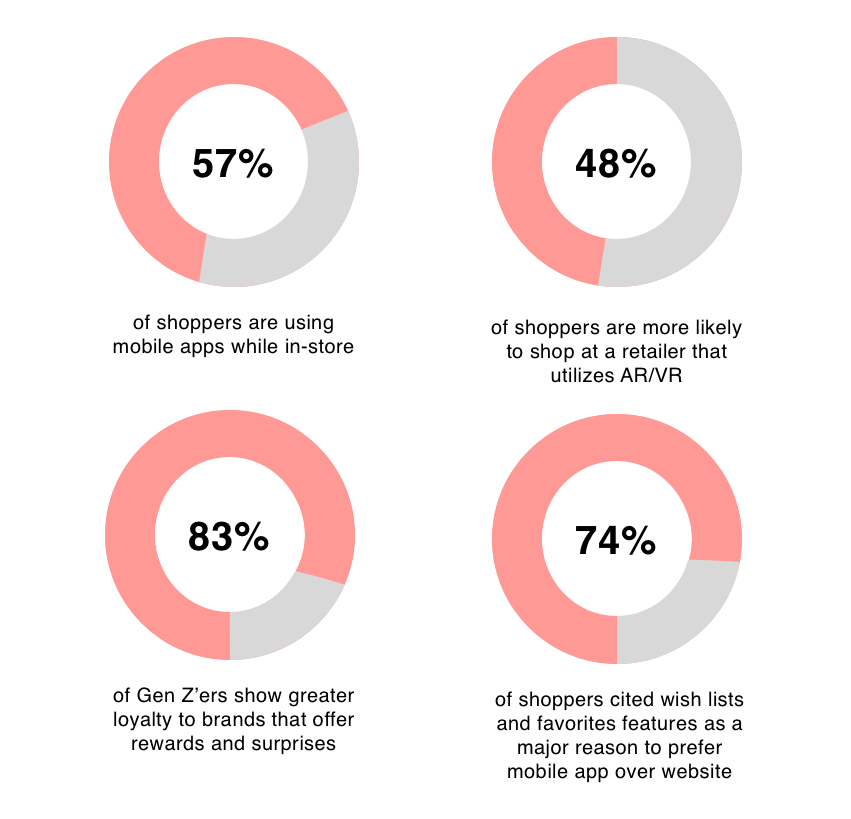
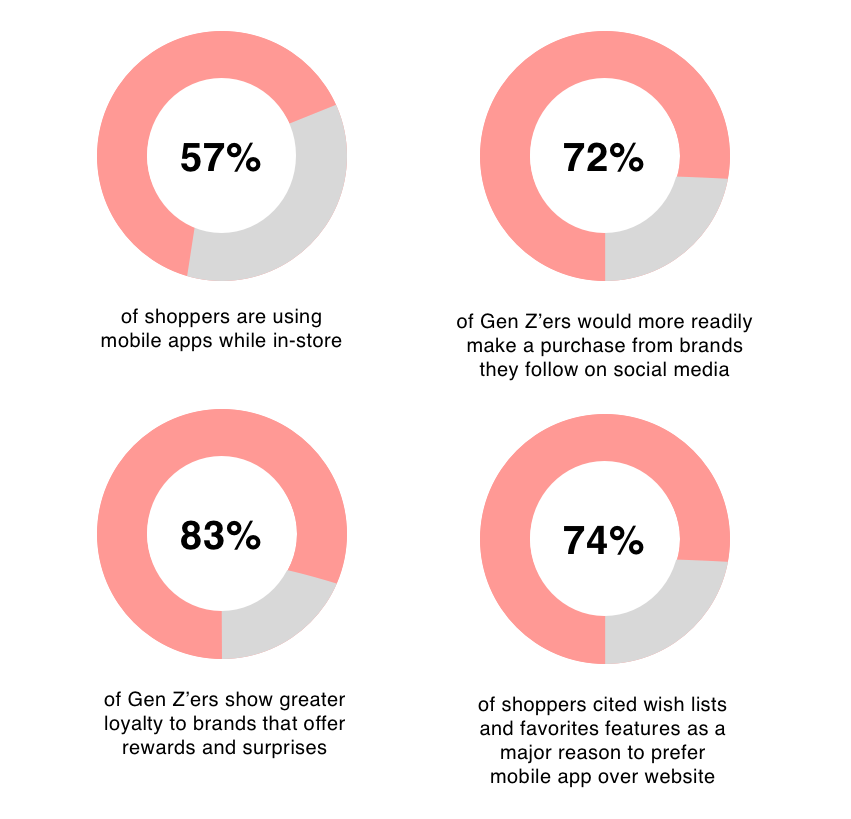
update

diff --git a/Coach/coach.html b/Coach/coach.html
@@ -65,52 +65,102 @@
         </div>
         <div class = "text">
             <p align = "justify">Summer 2019, I was an intern at Kate Spade. Kate Spade, Coach, and Stuart Weitzman are all owned by 
-                Tapestry. Tapestry had a case study competition for all its interns and I was placed in a team of six. My teammates had either a 
-                design or business background, so we were tasked with ideating Coach's mobile app.</p> 
-            <p align = "justify">Coach.com was seeing a huge jump in the number of mobile visitors. 
-                There was also a huge increase in conversion rates through mobile. As a result, Coach was exploring the 
-                introduction of a mobile app for consumers to use at home and potentially in stores to enhance the Coach 
-                shopping experience. Many of their rival companies had developed mobile apps to capitalize on convenience and 
-                open a new line of communication between customer and brand. Coach also faced difficulties connecting to 
-                younger generations and wanted to change that.</p>   
+                Tapestry. Tapestry had a case study competition for all its interns and I was placed in a team of six. My teammates and I, who had either a 
+                design or business background, were tasked with ideating a mobile app for Coach.</p> 
+            <p align = "justify">Why? Coach.com was seeing a huge jump in the number of mobile visitors, along with a huge increase in conversion rates through mobile. 
+                Many of their rival companies had already developed mobile apps to capitalize on convenience and open a new line of communication between customer 
+                and brand. Coach was also facing difficulties connecting to younger generations and wanted to change that.
+                As a result, Coach was exploring the introduction of a mobile app for consumers to use at home and potentially in stores to 
+                enhance the Coach shopping experience. </p>   
         </div>
         <div class = "highlight">
-            <p align = "justify">Coach wanted to connect to their customers in a new, innovative way. 
+            <p align = "justify">Coach wanted to connect to their customers in an innovative way. 
                 How could we design a mobile app that would appeal to all demographics, especially Gen Z, while maintaining Coach's values
                 and brand?</p>
         </div>  
         <div class = "title">
-            <h2>Research</h2>
+            <h2>User Research</h2>
         </div>
         <div class = "text">
-            <p align = "justify">Before working on the actual design, we needed to get an idea of what consumers are 
-                looking for. Our research found that <span class = "bold">Augmented/Virtual Reality</span> was one of the big technological trends. 
-                The Gucci app, for example, uses AR to allow users to try on shoes and glasses. Through more research and 
-                interviewing Tapestry employees, we found these other key points:</p>
+            <p align = "justify">Before working on the actual design, we needed to deepen our understanding of the target demographic: Generation Z. 
+                Luxury brands in general have long been associated with older people due to their high prices. Competitors such as Gucci managed to find ways to connect to 
+                younger people, but Coach had not.</p>
+        </div>
+        <div class = "highlight">
+            <p align = "justify">Why did this matter? What was so important about Gen Z?</p>
+        </div>
+        <div class = "text">
+            <p align = "justify">Our research found that <span class ="bold">consumers under the age of 35 loved to shop online due to its convenience</span>. Gen Z, 
+            in particular, was estimated to have a spending power of <span class ="bold">$143 billion</span>. It was no wonder that Coach wanted to tap into 
+            that market, and the best way to do so was through mobile.</p>
+        </div> 
+        <div class = "text">
+            <p align = "justify">Through more research and interviewing younger Tapestry employees, we discovered other key insights on Gen Z:</p>
         </div>
         <img class = "img" src = "Stats.png" alt = "stats"><br>
-        <div class = "title">
-            <h2>User Persona</h2>
+        <div class = "highlight">
+            <p align = "justify">We concluded that Gen Z valued meaningful incentives and interactions. It wasn't enough to simply have an app. The 
+                experience needed to be engaging and fun.</p>
         </div>
         <div class = "text">
-            <p align = "justify">Since the app would mainly target Gen Z, we developed a Gen Z persona to further help us understand 
-            what the app needed.</p><br>
+            <p align = "justify">Apps take up space in users' smartphones. There needed to be a good reason to download them, to use them over 
+            a company's mobile site. Offering tools that mobile sites didn't have, such as wish lists, were one reason. Incentives such as rewards were another (we 
+            suspected this was because Gen Z'ers didn't have a proper income and therefore jumped at any opportunity to save money). Since Gen Z'ers 
+            were more likely to purchase from brands they follow on social media, we also concluded that Gen Z'ers valued building relationships. Lastly, 
+            despite shopping online so frequently, Gen Z'ers still liked to visit stores in person and expected interesting experiences there.</p> 
         </div>
-        <img class = "img" src = "Emily Young.png" alt = "persona"><br>
+        <div class = "text">
+            <p align = "justify">We created a Gen Z persona to tie all these findings together:</p>
+        </div>
+        <img class = "img" src = "Emily Young.png" alt = "persona">
+        <div class = "title">
+            <h2>Market Research</h2>
+        </div>
+        <div class = "text">
+            <p align = "justify">Gen Z clearly valued new and innovative technology. What sort of technology was out there, and how were they being used?</p>
+        </div>
+        <div class = "text">
+            <p align = "justify">We researched technological trends and found that <span class = "bold">Augmented and Virtual Reality were growing rapidly, 
+             with 48% of shoppers saying they were more likely to shop at retailers that utilized them.</span> Gucci, in fact, was using AR to allow customers to 
+             try on sneakers.</p>
+        </div>
+        <img class = "img" src = "gucci.png" alt = "gucci">
+        <div class = "text">
+            <p align = "justify">The reasoning behind this was because customers may hesitate to buy something online if they're unsure how it would look on them. 
+            We thought this was a great idea that didn't just need to be limited to shoes. Why not let users try on other items as well? We looked into the feasibility of that. 
+            AR required customers to use a camera, which could be tricky for trying on tops or bottoms. However, it was doable with VR, where customers could create an 
+            avatar that would wear the clothes for them.</p>
+        </div>
+        <div class = "text">
+            <p align = "justify">Since Gen Z also cared for positive in-store experiences, we researched methods for Coach stores to use advanced technology. <span class = "bold">QR 
+            codes</span> were becoming increasingly popular due to their convenience: all users need to do is scan them with their phone camera. We decided that QR codes could 
+            work with VR. An in-store customer could scan an item they liked and virtually try it on, saving them the time needed to find a fitting room and change.</p>
+        </div>
+        <img class = "img" src = "qr.png" alt = "qr code">
+        <div class = "text">
+            <p align = "justify">Our final research phase focused on general eCommerce best practices for both experience and visuals. We analyzed the mobile apps of several 
+            other brands, such as Chanel, Nike, and Burberry.</p>
+        </div>
+        <img class = "img" src = "Competitors.png" alt = "competitors">
+        <div class = "text">
+            <p align = "justify">We liked the cleanliness and big images, but Coach's app could definitely be more fun and interesting!</p>
+        </div>
         <div class = "title">
             <h2>Ideation</h2>
         </div>
         <div class = "text">
-            <p align = "justify">Based off of our research, we decided to create an app that would:</p>
-            <p align = "justify"><span class = "bold">1.</span> Utilize AR/VR to allow users to quickly try on products in/out of stores.<br><br>
-                <span class = "bold">2.</span> Build an online community by letting users share/save photos/products and 
+            <p align = "justify">Based on our research, we decided to create an app that would:</p>
+            <p align = "justify"><span class = "bold">1.</span> Utilize VR to allow customers to quickly try on products in/out of stores.<br><br>
+                <span class = "bold">2.</span> Build an online community by letting customers share/save photos/products and 
                 featuring social media influencers/Coach ambassadors.<br><br>
-                <span class = "bold">3.</span> Utilize a rewards system to incentivize users to keep using the app.</p>
-            <p align = "justify">Once we formulated an idea, we created a flow chart to help us flesh out the details.</p><br>
+                <span class = "bold">3.</span> Utilize a rewards system to incentivize customers to keep using the app.</p>
+            <p align = "justify">Once we formulated an idea, we created a flow chart to help us flesh out the details.</p>
         </div>
-        <img class = "img" src = "flow_chart.jpg" alt = "flow chart"><br>
+        <img class = "img" src = "flow_chart.jpg" alt = "flow chart">
         <div class = "text">
-            <p align = "justify">One of my teammates, Morgan Rossi, also drew a few amazing sketches to help think of the app's appearance!</p>
+            <p align = "justify">One of my teammates, Morgan Rossi, also drew a few amazing sketches to help think of the app's appearance! We especially loved her idea 
+            of making the space where customers try on clothes look like a fitting room.
+            </p>
         </div>
         <figure>
             <img class = "img" src = "sketches1.png" alt = "sketches">
@@ -140,52 +190,48 @@
         <div class = "text">
             <p align = "justify"><span class = "bold">The app icon.</span> The goggles are the "C" from Coach. They're a nod to the 
                 VR aspect of the app and symbolize viewing the world through Coach's eyes. The background is a peach color that 
-                Coach commonly uses for their products.</p><br>
+                Coach commonly uses for their products.</p>
         </div>
         <img class = "img" src = "home_page.png" alt = "home">
         <div class = "text">
-            <p align = "justify"><span class = "bold">The home page.</span> Since this is the page users see first, we wanted it to get them 
+            <p align = "justify"><span class = "bold">The home page.</span> Since this is the page customers see first, we wanted it to get them 
                 excited about exploring the app. The top section would feature a new, exciting thing happening at Coach. In this wireframe, 
-                users can watch Coach's collection at NYFW live, only on the app. Below could be new arrivals and the latest posts from 
-                Coach's ambassadors.
-                At the very top, users can search through the app and access their virtual fitting room and bag. 
-                The bottom nav bar shows the core sections.</p>
+                customers can watch Coach's collection at NYFW live, only on the app. Below could be new arrivals and the latest posts from 
+                Coach's ambassadors.</p>
         </div>
         <img class = "img" src = "connect_page.png" alt = "connect">
         <div class = "text">
-            <p align = "justify">To appeal to Gen Z, we created a <span class = "bold">social platform</span> where people can share how they wear 
-                Coach and save posts made by others. Users can also follow Coach's ambassadors. The posts are listed 
-                in a blog-like layout, as opposed to a standard grid, to make the page more fun and interesting.</p>
+            <p align = "justify">To build the community Gen Z'ers crave, we created a <span class = "bold">social platform</span> where people can share how they wear 
+                Coach and save posts made by others. Customers can also follow Coach's ambassadors. The posts are listed 
+                in a blog-like layout, as opposed to a standard grid, to make the page more visually interesting.</p>
         </div>
         <img class = "img" src = "shop_page.png" alt = "shop">
         <div class = "text">
             <p align = "justify"><span class = "bold">The shop page.</span> To organize the products better, women's, men's, and sale products are 
-                divided up and everything can be sorted and filtered. Again, note the blog layout for the products. Users also have the 
-                option to save items they like.</p><br>
+                divided up and everything can be sorted and filtered. Again, note the blog layout for the products. Customers also have the 
+                option to save items they like.</p>
         </div>
-        <img class = "img" src = "Fitting Room.png" alt = "fitting room"><br>
+        <img class = "img" src = "Fitting Room.png" alt = "fitting room">
         <div class = "text">
-            <p align = "justify"><span class = "bold">The fitting room.</span> The fitting room. When users first set 
+            <p align = "justify"><span class = "bold">The fitting room.</span> The fitting room. When customers first set 
                 up an account, they are asked to create an avatar, which they can edit anytime. The avatar can try on 
-                all the products to give users an idea what they would look like on them. We felt this feature was 
-                important because many people hesitate to buy products online out of fear that it would look bad on them. </p>
+                all the products to give customers an idea what they would look like on them.</p>
         </div>
-        <img class = "img" src = "camera_page.png" alt = "camera"><br>
+        <img class = "img" src = "camera_page.png" alt = "camera">
         <div class = "text">
-            <p align = "justify">To make the app usable in stores, we've included a <span class = "bold">camera</span> where users 
-                can take photos of a product and try them on virtually. This would help users save time 
-                from waiting for an available fitting room and putting on/taking off items. They would also have the option to save or share 
-                the photo.</p>
+            <p align = "justify">To make the app usable in stores, we've included a <span class = "bold">camera</span> where customers 
+                can scan a product's QR code and try them on virtually. This would help users save time 
+                from waiting for an available fitting room and putting on/taking off items. They can also take photos of the product itself 
+                to share or save.</p>
         </div>
-        <img class = "img" src = "profile_page.png" alt = "profile"><br>
+        <img class = "img" src = "profile_page.png" alt = "profile">
         <div class = "text">
             <p align = "justify">Your <span class = "bold">profile page</span> is where you can edit your avatar and view your saved posts. 
-                You can also view your <span class = "bold">rewards.</span> A rewards system would further motivate people to use the app. We created a 
-                rewards system where people can win Coach charms that are used for customization. The system is based 
-                off of Snapchat trophies. There are different sets of charms, where each charm builds off of each other. 
-                For example, to unlock the Black Tea Rose, users would need to spend over $100. To unlock the Blue Tea Rose, 
-                users would need to spend at $200, and to unlock the Purple Tea Rose, a $1000. Each reward would offer a 
-                discount or access to an event or sale. There's an expiration date for the rewards so that users can't 
+                You can also view your <span class = "bold">rewards.</span> We created a rewards system where people can win the Coach charms that are used for customization. 
+                The system is based off of Snapchat trophies. There are different sets of charms, where each charm builds off of each other. 
+                For example, to unlock the Black Tea Rose, customers would need to spend over $100. To unlock the Blue Tea Rose, 
+                customers would need to spend at $200, and to unlock the Purple Tea Rose, a $1000. Each reward would offer a 
+                discount or access to an event or sale. There's an expiration date for the rewards so that customers can't 
                 stack too many discounts on top of each other and get items for free. 
             </p>
         </div>

diff --git a/Housing/myhousing.html b/Housing/myhousing.html
@@ -73,6 +73,9 @@
                 and dining for them. How could we redesign MyHousing so that it is more intuitive, efficient, and has 
                 higher utility?</p>
         </div>
+        <div class = "title">
+            <h2>Current Design</h2>
+        </div>
         <div class = "text">
             <p align = "justify">This is what the MyHousing home page currently looks like: </p>
         </div>
@@ -80,7 +83,7 @@
         <img class = "img" src = "original2.jpg" alt = "original">
         <div class = "text">
             <p align = "justify">My entire team and I are students who have used MyHousing at least once. 
-                Therefore, we could draw from personal experience to figure out how to improve MyHousing. 
+                Therefore, we could draw from personal experience on how it could potentially be improved. 
                 We all agreed that the menu was poorly designed: it is hard to read and there are too many options 
                 for such little tasks. For example, "More Tasks" only contains the room condition report. We also all 
                 felt that having access to floor plans in MyHousing would be helpful (currently, the floor plans are 
@@ -92,10 +95,10 @@
             <h2>Research</h2>
         </div>
         <div class = "text">
-            <p>Though we were confident in our beliefs, we still felt it was important to see exactly what other students 
+            <p align = "justify">Though we were confident in our beliefs, we still felt it was important to see exactly what other students 
                 were thinking as well. As a result, we created a questionnaire that we sent to students we knew and posted 
                 in social media groups. We received about thirty responses. We also conducted four interviews.</p>
-            <p>The questionnaire and interviews yielded interesting results:<br><br>
+            <p align = "justify">The questionnaire and interviews yielded interesting results:<br><br>
                 <span class = "bold">1.</span> From the questionnaire, 26%, the biggest percentile, ranked navigating MyHousing 
                 to be a 6 on a scale of 1-10, with 1 being hardest and 10 being easiest. This contrasted from the interviewees 
                 that claimed navigating MyHousing was more difficult (a 4 on average)<br><br>
@@ -108,13 +111,15 @@
                 They all have to rely on being able to request friends as roommates.<br><br>
                 <span class = "bold">5.</span> In terms of removing features, they found the messaging platform unhelpful. 
                 No one knew how to use it.</p>
-            <p>Overall, we concluded that MyHousing is not that ineffective, but it does not meet its potential in helping students achieve their housing/meal plan goals.</p>
+        </div>
+        <div class = "highlight">
+            <p align = "justify">Overall, we concluded that MyHousing is not that ineffective, but it does not meet its potential in helping students achieve their housing/meal plan goals.</p>
         </div>
         <div class = "title">
             <h2>Paper Prototype</h2>
         </div>
         <div class = "text">
-            <p align = "justify">Based off our responses, we thought of a design that was more straightforward and had higher
+            <p align = "justify">Based on our responses, we thought of a design that was more straightforward and had higher
                 utility by adding floor plans and a roommate matching system. We created a paper prototype to test our ideas. We had 
                 ten subjects, all of whom were also students. Our tests utilized this scenario:</p>
         </div>
@@ -165,9 +170,8 @@
                 also write a short bio and answer a lot of lifestyle questions. The answers to the questions are 
                 crucial for roommate matching. If a user is viewing someone else's profile, the email will be linked.</p>
         </div>
-        <img class = "img" src = "Roommate Search.png" alt = "roommate search"><br>
-        <img class = "img" src = "Roomate Request.png" alt = "roommate request"><br>
-        <img class = "img" src = "Roomate Request 2.png" alt = "roommate request"><br>
+        <img class = "img" src = "Roommate Search.png" alt = "roommate search">
+        <img class = "img" src = "Roomate Request.png" alt = "roommate request">
         <div class = "text">
             <p align = "justify"><span class = "bold">Selecting a roommate.</span> Based off answers to the questions on Sam's profile, 
                 the platform will show the students in his year who he matches best with (it will go down to 80%). His current 
@@ -176,19 +180,19 @@
                 (the other student will be notified through email if they receive a request and can accept through there). 
                 Once they have accepted his request, Sam can pull them into any dorm he chooses.</p>
         </div>
-        <img class = "img" src = "Floor Plans.png" alt = "floor plans"><br>
-        <img class = "img" src = "Hass Floor Plans.png" alt = "hass floor plans"><br>
+        <img class = "img" src = "Floor Plans.png" alt = "floor plans">
+        <img class = "img" src = "Hass Floor Plans.png" alt = "hass floor plans">
         <div class = "text">
             <p align = "justify"><span class = "bold">Viewing floor plans.</span> If Sam wants to view the floor plans of 
                 Hassenfeld, all he has to do is click "View Floor Plans" and click "Hassenfeld." From there, he can see the 
                 plans of each floor. He can click on them and interact with them, zooming in and dragging it to get a better look.</p>
         </div>
-        <img class = "img" src = "Housing Selection.png" alt = "housing selection"><br>
-        <img class = "img" src = "Housing Selection 2.png" alt = "housing selection"><br>
-        <img class = "img" src = "Housing Selection 3.png" alt = "housing selection"><br>
-        <img class = "img" src = "Housing Selection 4.png" alt = "housing selection"><br>
-        <img class = "img" src = "Housing Selection 5.png" alt = "housing selection"><br>
-        <img class = "img" src = "Housing Selection 6.png" alt = "housing selection"><br>
+        <img class = "img" src = "Housing Selection.png" alt = "housing selection">
+        <img class = "img" src = "Housing Selection 2.png" alt = "housing selection">
+        <img class = "img" src = "Housing Selection 3.png" alt = "housing selection">
+        <img class = "img" src = "Housing Selection 4.png" alt = "housing selection">
+        <img class = "img" src = "Housing Selection 5.png" alt = "housing selection">
+        <img class = "img" src = "Housing Selection 6.png" alt = "housing selection">
         <div class = "text">
             <p align = "justify"><span class = "bold">Selecting housing.</span> If it is now Sam's time to register, all 
                 he has to do is click "Select Housing" from the drop-down. All the dorms at Brandeis are listed. We 
@@ -199,8 +203,8 @@
                 selection. He also has the option to change his selection by clicking on another room and confirming for that. 
                 Once he confirms, an email will be sent to him and his roommate(s) so they know the selection has been processed.</p>
         </div>
-        <img class = "img" src = "Meal Plan.png" alt = "meal plan"><br>
-        <img class = "img" src = "Meal Plan 2.png" alt = "meal plan"><br>
+        <img class = "img" src = "Meal Plan.png" alt = "meal plan">
+        <img class = "img" src = "Meal Plan 2.png" alt = "meal plan">
         <div class = "text">
             <p align = "justify"><span class = "bold">Selecting a meal plan.</span> When it is time for Sam to select a 
                 meal plan, all he has to do is click on "Dining," choose a meal plan, and save. In the current MyHousing, 
